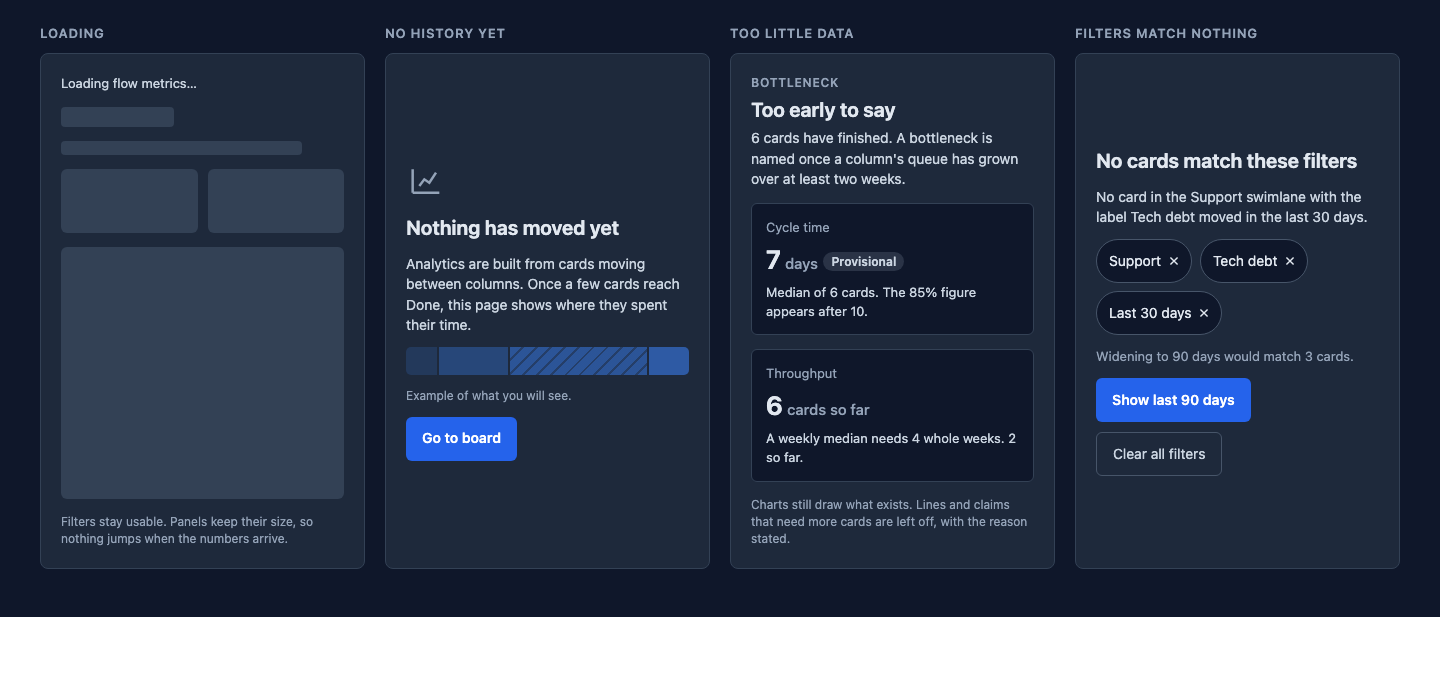
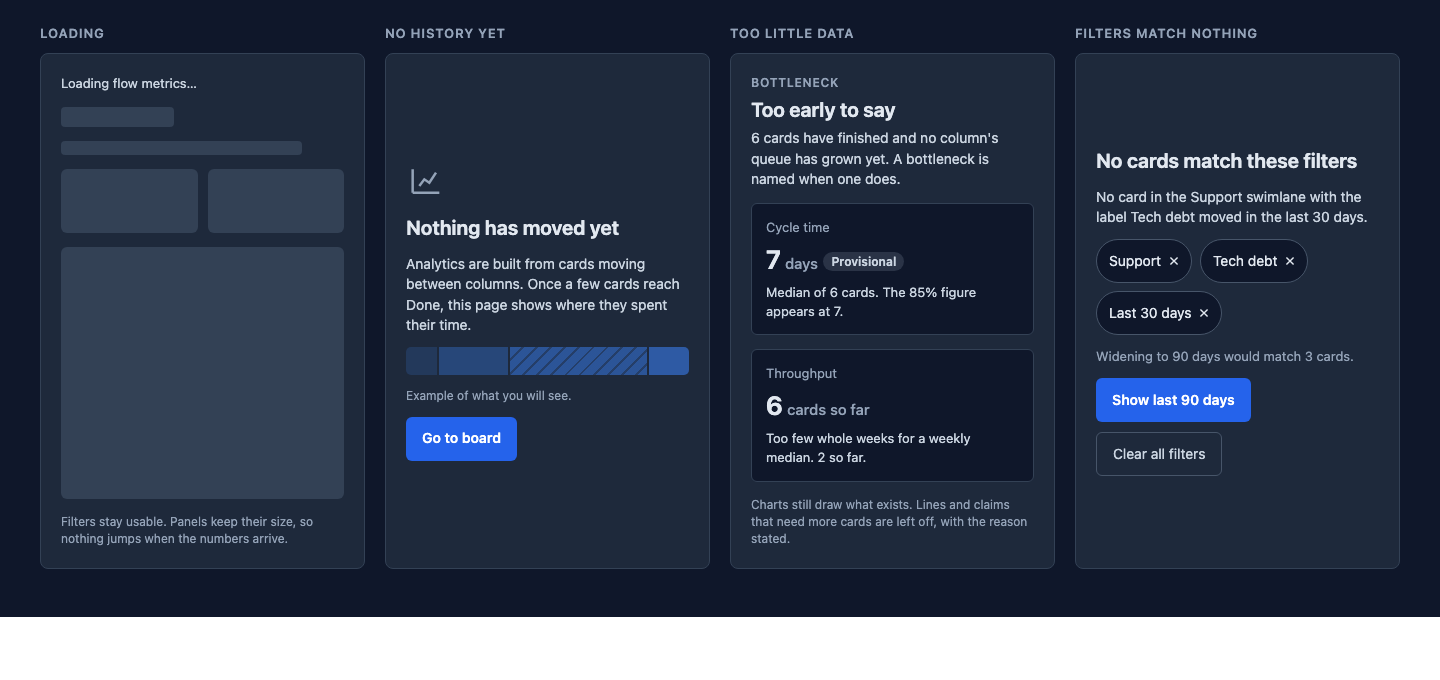
docs: correct and complete the Analytics redesign spec (#2257, #458)
Address the completeness-check findings:

- The analytics endpoint accepts 1 to 365 days; its real gap is the
  missing swimlane and label filter.
- State the withholding rules from the flow-metric ADR and fix the three
  strings in the states artboard that contradicted them.
- Spell out the Swimlanes view controls, status and trend thresholds, bar
  scale and small-sample rows.
- Define age colors and the full-list link in Needs attention, the
  drawer's show-more and button targets, the view switch as links, where
  each sample size shows, and the alpha steps for every mark.
- List what is not designed and the docs to update when it is built.
- US English: labeled.

Changed region(s): [[0.5312, 0.1853, 0.7188, 0.2779], [0.5312, 0.6176, 0.6875, 0.6794], [0.5625, 0.4324, 0.5938, 0.4632]]

diff --git a/docs/development/analytics-redesign/artboards/States.dc.html b/docs/development/analytics-redesign/artboards/States.dc.html
@@ -53,17 +53,17 @@ body{margin:0}
 <div style="display: flex; flex-direction: column; gap: 4px">
 <span style="color: #94a3b8; font-size: 12px; font-weight: 600; text-transform: uppercase; letter-spacing: 0.06em">Bottleneck</span>
 <h3 style="margin: 0; font-size: 20px; font-weight: 650">Too early to say</h3>
-<p style="margin: 0; color: #cbd5e1">6 cards have finished. A bottleneck is named once a column's queue has grown over at least two weeks.</p>
+<p style="margin: 0; color: #cbd5e1">6 cards have finished and no column's queue has grown yet. A bottleneck is named when one does.</p>
 </div>
 <div style="background: #0f172a; border: 1px solid #334155; border-radius: 6px; padding: 14px; display: flex; flex-direction: column; gap: 4px">
 <span style="color: #94a3b8; font-size: 13px">Cycle time</span>
 <span style="font-size: 26px; font-weight: 650">7<span style="font-size: 15px; font-weight: 500; color: #94a3b8"> days</span> <span style="font-size: 12px; font-weight: 600; padding: 2px 8px; border-radius: 999px; background: rgba(148,163,184,0.2); color: #cbd5e1; vertical-align: middle">Provisional</span></span>
-<span style="color: #cbd5e1; font-size: 13px">Median of 6 cards. The 85% figure appears after 10.</span>
+<span style="color: #cbd5e1; font-size: 13px">Median of 6 cards. The 85% figure appears at 7.</span>
 </div>
 <div style="background: #0f172a; border: 1px solid #334155; border-radius: 6px; padding: 14px; display: flex; flex-direction: column; gap: 4px">
 <span style="color: #94a3b8; font-size: 13px">Throughput</span>
 <span style="font-size: 26px; font-weight: 650">6<span style="font-size: 15px; font-weight: 500; color: #94a3b8"> cards so far</span></span>
-<span style="color: #cbd5e1; font-size: 13px">A weekly median needs 4 whole weeks. 2 so far.</span>
+<span style="color: #cbd5e1; font-size: 13px">Too few whole weeks for a weekly median. 2 so far.</span>
 </div>
 <p style="margin: 0; color: #94a3b8; font-size: 12px">Charts still draw what exists. Lines and claims that need more cards are left off, with the reason stated.</p>
 </div>

diff --git a/docs/development/analytics-redesign.md b/docs/development/analytics-redesign.md
@@ -5,7 +5,7 @@ This page is the build spec for the redesigned Analytics tab. It records the des
 
 **Why it matters:** The current tab has three sections with three filter models, buries the bottleneck in a chart footnote, and puts the most actionable list last. The redesign answers "where is work stuck and what should I look at" before it shows a chart.
 
-**Status:** Design only. Nothing on this page is implemented. The work is tracked in #2257 (page restructure) and #458 (swimlane comparison and breakdowns), both labelled `analytics-redesign`.
+**Status:** Design only. Nothing on this page is implemented. The work is tracked in #2257 (page restructure) and #458 (swimlane comparison and breakdowns), both labeled `analytics-redesign`.
 
 **Watch out:** Every number in the screenshots is sample data. The screenshots approximate charts with plain boxes; build the real charts on `components/Common/Chart.tsx`.
 
@@ -36,7 +36,10 @@ This page is the build spec for the redesigned Analytics tab. It records the des
 
 ## Page structure
 
-The tab has two views, **Overview** and **Swimlanes**, switched by a tab row under the page title. Both share one filter bar.
+The tab has two views, **Overview** and **Swimlanes**, switched by a row of two links under the page title.
+
+- Build the switch as a `<nav>` of links with `aria-current="page"` on the active one, not an ARIA tablist. The active link is bold with an underline, so color is not the only cue.
+- The Period and Label selections carry over when switching views.
 
 Overview, top to bottom:
 
@@ -57,7 +60,8 @@ Chart rows are two equal columns from `lg` and one column below, and a chart fra
 
 ## Filter bar
 
-- **Period**, **Swimlane** and **Label** dropdowns, in that order, using `SingleSelectDropdown` with `portalMenu`. One selection drives every panel on both tabs.
+- **Period**, **Swimlane** and **Label** dropdowns, in that order, using `SingleSelectDropdown` with `portalMenu`. One selection drives every panel on the Overview.
+- The Swimlanes view has Period and Label only. It has no Swimlane filter and no Break down by, because it already shows every swimlane.
 - **Period options:** last 30, 90, 180 and 365 days. Default 90.
 - **Break down by:** a segmented group with None, Swimlane, Label, and one entry per eligible card custom field (#458). The active segment carries `ActiveMark`.
 - **Export CSV**, admin and site admin only, as today.
@@ -82,7 +86,19 @@ Four tiles, each with a label, one large number with its unit, and one supportin
 | Work in progress | Cards in progress now | Columns over their limit and cards past the 85th percentile |
 | Blocked time | Total days blocked | Number of blocks and cards blocked now |
 
-A percentile below the minimum sample size in the flow-metric ADR (#1532) is withheld, and the tile says why.
+### Withholding rules
+
+These come from the flow-metric ADR (#1532) and `backend/boards/services/flow_metrics.py`. The server applies them; the page only reports the result.
+
+| Value | Shown when | Otherwise |
+|---|---|---|
+| Median (50th percentile) | at least 5 finished cards | withheld, with the count so far |
+| 85th percentile | at least 7 finished cards | withheld, with the count so far |
+| 95th percentile | at least 20 finished cards | withheld |
+| Weekly throughput median | the API returns one | withheld, with the reason |
+| Bottleneck | a column's queue grew over the period | "No bottleneck" or "Too early to say" |
+
+**Where the sample size shows:** on the Cycle time tile; in each chart's notes, as `ChartPanel` does today ("102 cards."); and as the "finished" count on each Swimlanes row.
 
 ## How work flows
 
@@ -103,7 +119,7 @@ One row, left to right, inside a box that scrolls sideways when the panel is nar
 Under the flow row, in the same panel.
 
 - One horizontal bar per group. With no breakdown there is one bar, "All cards".
-- Each bar is segmented by in-progress column; a segment's width is the median days in that column and it is labelled with that number.
+- Each bar is segmented by in-progress column; a segment's width is the median days in that column and it is labeled with that number.
 - The bar's total length is proportional to the group's total, so the longest bar is the slowest group. The total is printed at the end.
 - The bottleneck column's segment is hatched.
 - This replaces the dwell heatmap on this tab. The board overlay keeps the per-cell view.
@@ -115,8 +131,8 @@ All four charts keep the `ChartPanel` behavior they have today: summary sentence
 | Chart | What changes |
 |---|---|
 | Cumulative flow | Layout position only. Bands in one hue with alpha steps, 1px separators, direct labels at the right edge, hatched bottleneck. |
-| Throughput | Adds a "started" marker per week next to the finished bar. Median dashed, labelled in the right margin. |
-| Aging work in progress | Layout position only. 50th percentile dashed, 85th solid and heavier, both labelled in the right margin. Ringed past the 85th, square when blocked. |
+| Throughput | Adds a "started" marker per week next to the finished bar. Median dashed, labeled in the right margin. |
+| Aging work in progress | Layout position only. 50th percentile dashed, 85th solid and heavier, both labeled in the right margin. Ringed past the 85th, square when blocked. |
 | Cycle time | Layout position only. Same reference-line vocabulary. |
 
 No chart uses a status color or a categorical palette.
@@ -128,7 +144,8 @@ One list that replaces the stalled-cards table.
 - **Membership:** a card is listed once if it is blocked now, has not moved for longer than the stalled threshold, or is older than the 85th percentile.
 - **Order:** oldest first.
 - **Row:** card title, then column, swimlane and the reason; age in days on the right. Selecting a row opens the card.
-- Shows five rows with a link to the full list.
+- **Age color:** `text-danger` when the card is past the 85th percentile, `text-warning` otherwise. Every card on this list is already flagged, so there is no neutral tier.
+- Shows five rows. "All N cards" expands the list in place, 25 per page, like the stalled table today.
 
 ## Why cards get blocked
 
@@ -143,8 +160,10 @@ Opens from a column box or from the bottleneck panel's primary button. Reuse `Fl
 
 - Heading: column name, and "N cards in this column now, limit L".
 - Three figures: in column against the limit, median wait, cards past the 85th percentile.
-- The oldest card expanded: title, age, swimlane and blocked state, a bar of its time by column, one sentence naming the time in this column, and buttons "Open card" and "Movement history".
-- The remaining cards, oldest first, five at a time.
+- The oldest card expanded: title, age, swimlane and blocked state, a bar of its time by column, one sentence naming the time in this column, and an "Open card" button that opens the card detail (`onOpenCard`).
+- The screenshot also shows a "Movement history" button. Do not build it; "Open card" already leads there.
+- The remaining cards, oldest first. Five show at first; a "Show N more" button reveals the rest. The screenshot shows this as plain text.
+- Opening, closing and focus return follow `FlowDrillDrawer` as it works today.
 
 ![Column drawer open on Review](analytics-redesign/overview-drawer.png)
 
@@ -163,8 +182,8 @@ Charts stay one hue. A breakdown never colors marks by group.
 
 ## Swimlanes tab (#458)
 
-- Same title row, tabs and filter bar. Two more controls: "Group lanes by" (None, or a swimlane custom field) and "Sort" (slowest first by default).
-- A finding panel at the top names the slowest swimlanes in one heading and one sentence.
+- Same title row and view links. Controls: Period, Label, "Group lanes by" (None, or a swimlane custom field) and "Sort" (slowest first by default).
+- A finding panel at the top names up to two swimlanes whose status is "slower", slowest first, in one heading and one sentence. When none is slower it says so.
 - One row per swimlane:
 
 | Cell | Content |
@@ -175,7 +194,12 @@ Charts stay one hue. A breakdown never colors marks by group.
 | Time blocked | A bar and "N% of elapsed time" |
 | Counts | Cards in progress and cards finished |
 
-- A swimlane with fewer than five finished cards shows no median, no bar and no trend, and says how many cards have finished.
+- **Status** compares the swimlane's median with the board median: "Slower than the board" when more than 15% above, "Faster than the board" when more than 15% below, otherwise "In line with the board". The 15% is a proposed threshold for `architect` to confirm.
+- **Trend** compares the first and last rolling medians in the period with the same 15% threshold: "Slower, A to B days", "Faster, A to B days" or "Steady".
+- **Bar scale** is shared by every row and runs from 0 to the largest 85th percentile on the page, rounded up to a round number. The board-median tick sits on that scale.
+- A swimlane with fewer than five finished cards shows no median, no bar and no trend. Its cycle-time text says how many cards have finished and its trend text is "Not enough cards".
+- A swimlane with five or six finished cards shows the median but no 85th-percentile line.
+- A legend under the rows explains the board-median tick, the solid bar, the thin line and the trend.
 - Status is carried by the words, not by color.
 - Below 1024px each row's cells wrap under the name.
 
@@ -186,7 +210,7 @@ Charts stay one hue. A breakdown never colors marks by group.
 | State | What shows |
 |---|---|
 | Loading | Skeleton blocks the size of the final panels. Filters stay usable. |
-| No history yet | Heading, one sentence on what the page will show, a dimmed example bar labelled as an example, and "Go to board". |
+| No history yet | Heading, one sentence on what the page will show, a dimmed example bar labeled as an example, and "Go to board". |
 | Too little data | The page renders. The bottleneck panel says "Too early to say" with the reason. Tiles mark values "Provisional" and say what is withheld and when it will appear. |
 | Filters match nothing | Heading, a sentence naming the active filters, a removable chip per filter, a suggestion when widening the period would match cards, and "Clear all filters". |
 
@@ -213,6 +237,25 @@ The screenshots use literal colors. Build with the tokens.
 
 Smallest text is 12px everywhere.
 
+### Alpha steps
+
+Every mark is `chartTint(alpha)`. The design uses these values; keep the order of strengths even if `ux-review` adjusts a number.
+
+| Mark | Alpha |
+|---|---|
+| Cumulative flow and time bars: Done | 0.12 |
+| Ready | 0.22 |
+| In progress | 0.42 |
+| QA | 0.7 |
+| Bottleneck column (hatched) | 0.62 with 0.3 stripes |
+| Throughput bars | 0.6; highlighted group 0.7, the rest 0.22 |
+| Aging marks | 0.85; highlighted group 0.95, the rest 0.22 |
+| Cycle time dots | 0.8; highlighted group 0.95, the rest 0.2 |
+| Flow-row squares | 0.7; over the limit, hollow with a 0.9 outline |
+| Blocked-reason and Swimlanes bars | 0.7 |
+
+Cumulative flow bands stack bottom to top in board order from Done back to the first in-progress column.
+
 ## Phone width
 
 ![Overview at 390px](analytics-redesign/overview-phone.png)
@@ -232,7 +275,7 @@ All additions are additive; no existing field, endpoint or parameter changes. Th
 | Flow row | WIP limit per column | Yes, on the column |
 | Where the time goes | Median days per column for the selected filters | No (the heatmap returns averages) |
 | Throughput | Cards started per week | No |
-| Blocked tile and list | Blocked totals and reasons for the same period as the flow charts | Partly: the analytics endpoint accepts 7, 30 or 90 days only |
+| Blocked tile and list | Blocked totals and reasons for the same period and filters as the flow charts | Partly: the analytics endpoint accepts 1 to 365 days, but takes no swimlane or label filter |
 | Needs attention | Stalled cards for the same period and filters | Partly: not filtered by swimlane or label |
 | Breakdowns (#458) | Each flow metric grouped by swimlane, label or custom field | No |
 | Swimlanes tab (#458) | Rolling median and share of elapsed time blocked, per swimlane | No |
@@ -246,6 +289,16 @@ Percentiles and medians come from the server. The browser never computes one.
 - The blocked-time table per column.
 
 These are UI removals only. The analytics endpoint keeps every field it returns today. Run `sunset-check` on the heatmap before removing it.
+
+## Not part of this design
+
+- #458's "card detail: show the card's own cycle time against its swimlane" has no design here. Leave it out unless it is designed separately.
+
+## Docs to update when this is built
+
+- `docs/features/analytics.md`: it describes the heatmap, the Age/Throughput toggle, the 7/30/90 pills, the stalled table and the blocked table, and uses "Throughput" for dwell time. After the change "Throughput" means cards finished per week everywhere.
+- `docs/api/`: every added field and parameter.
+- `frontend/CLAUDE.md` § Charts: any new rule `ux-review` surfaces, and a pointer to this page.
 
 ## Open decisions
 
@@ -268,6 +321,7 @@ For `ux-review` and `completeness-check` on the implementing MRs:
 - [ ] All four states render as in `states.png`
 - [ ] No sideways page scroll at 390px
 - [ ] Light and dark themes both pass the contrast rules in `frontend/CLAUDE.md`
+- [ ] `docs/features/analytics.md`, `docs/api/` and `frontend/CLAUDE.md` § Charts are updated in the same MR
 
 ## Artboard sources
 
